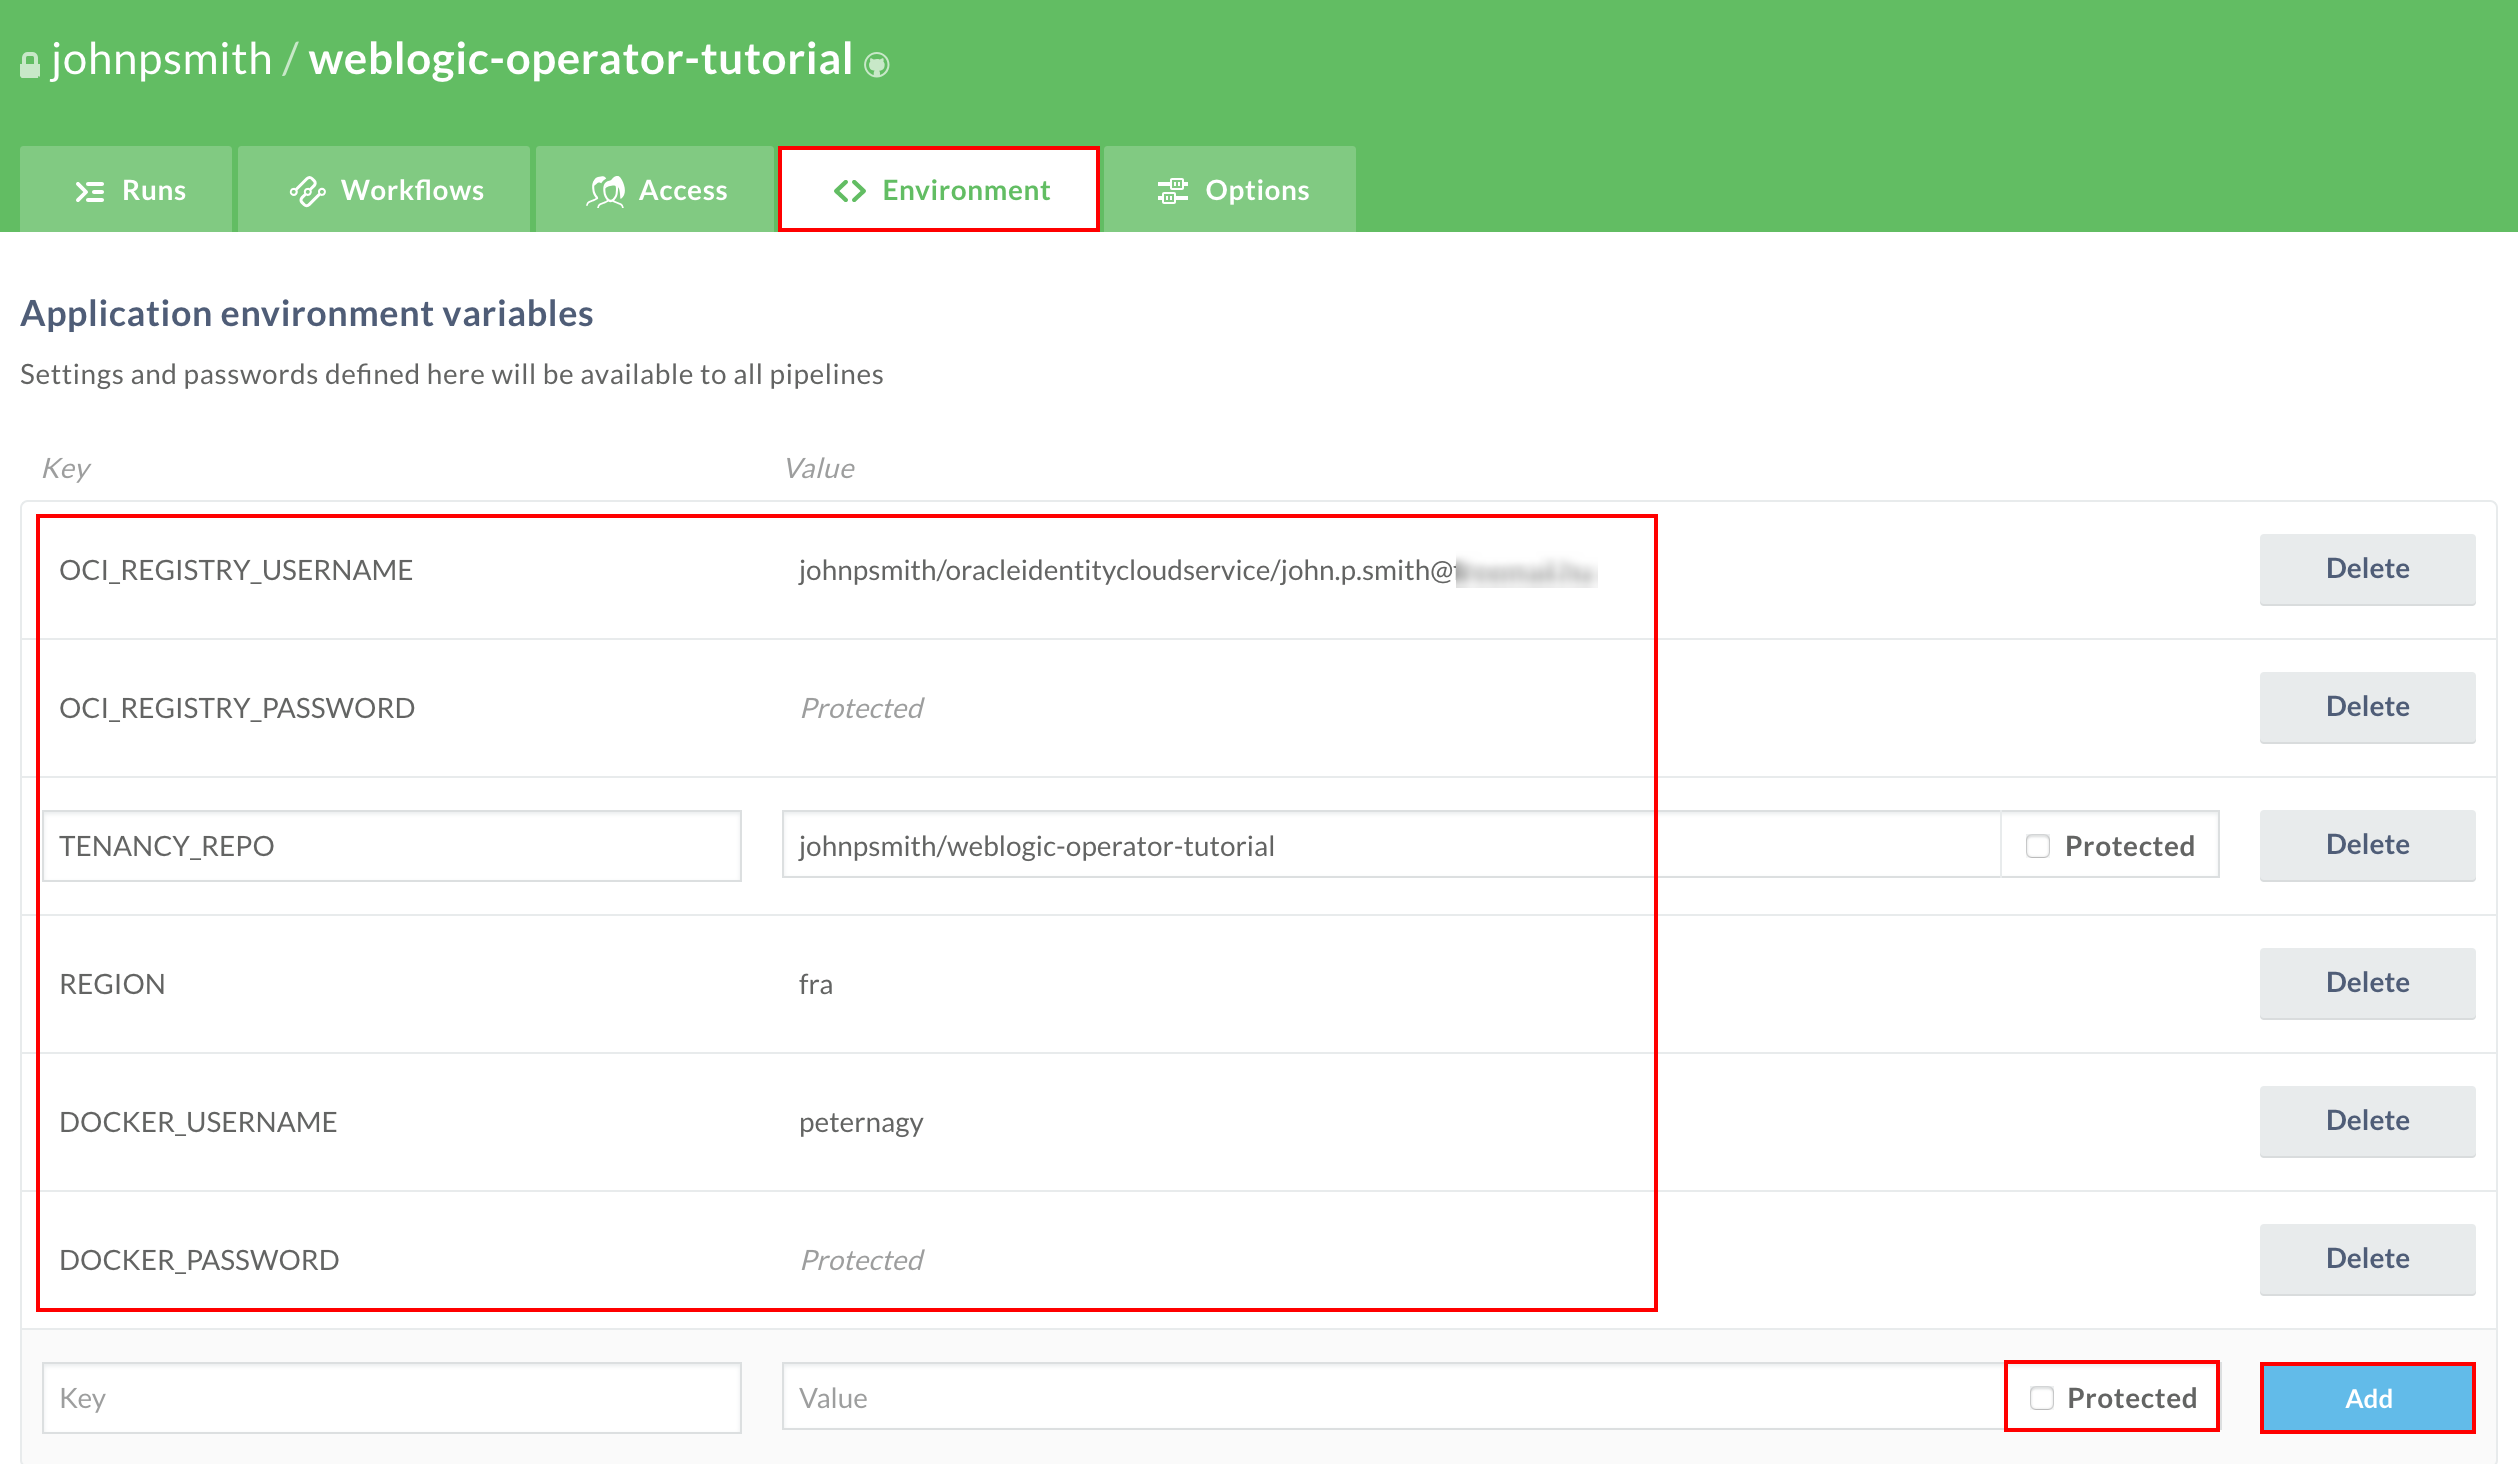
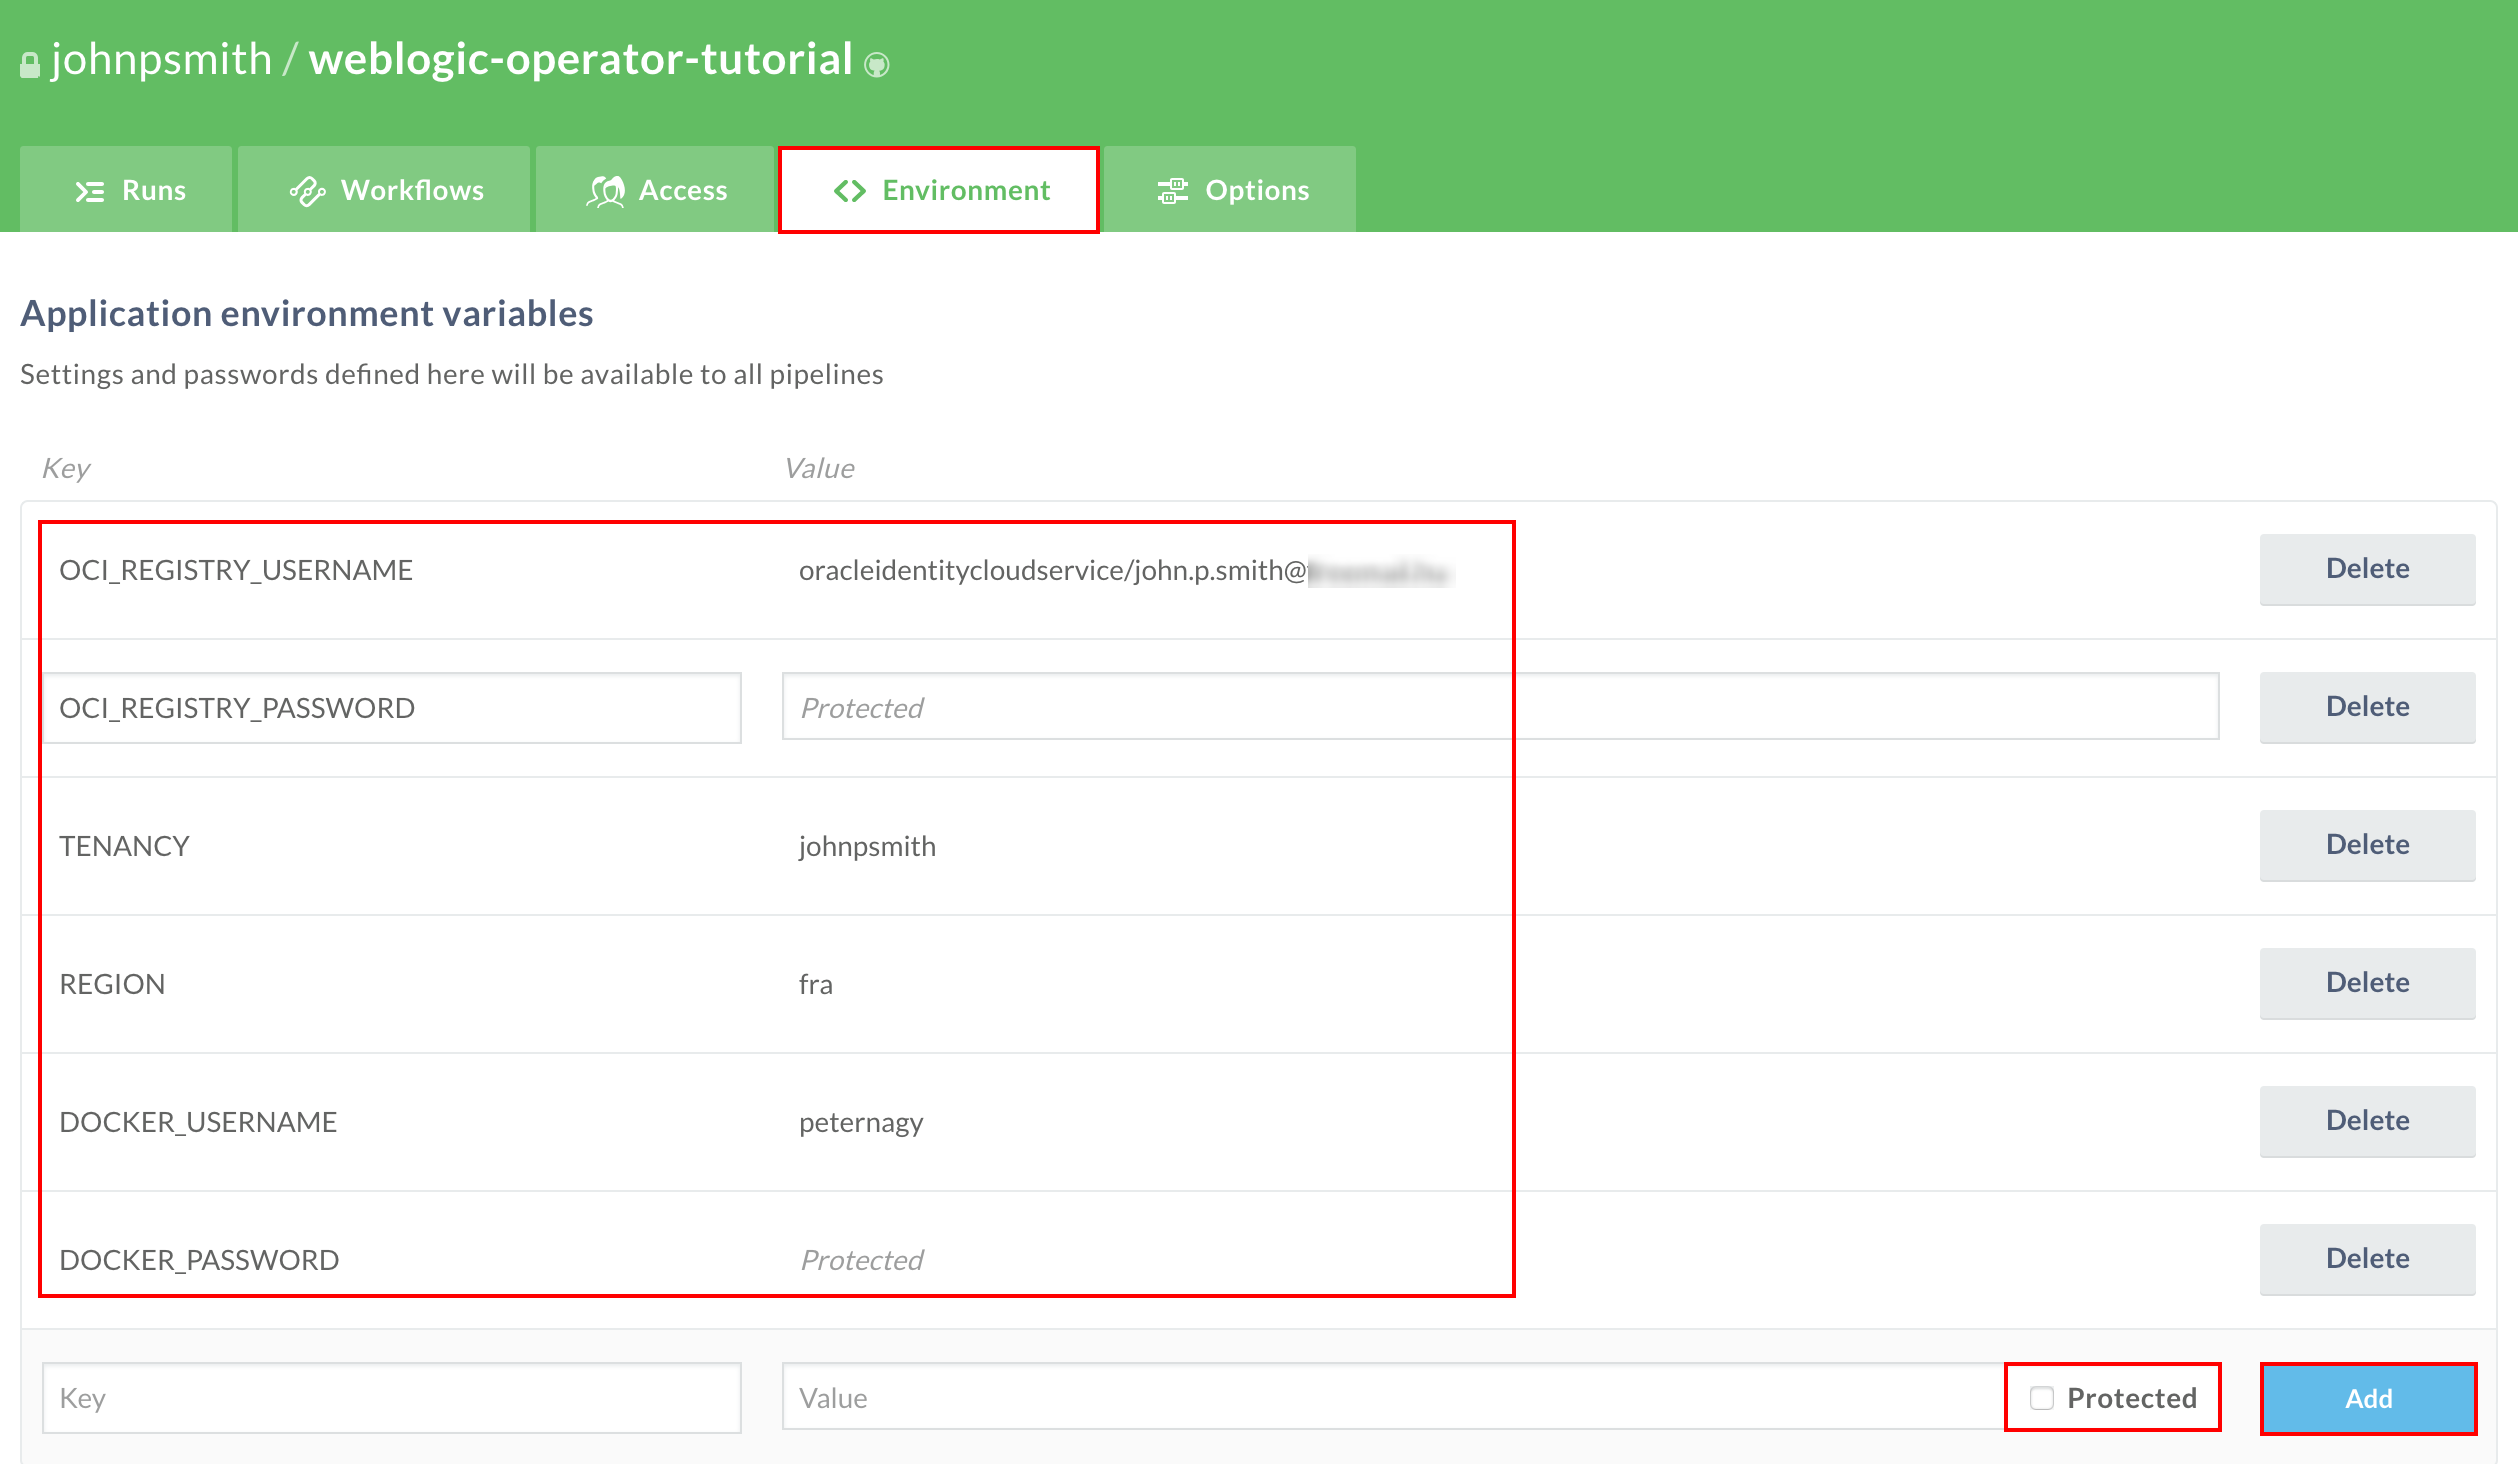
repo name fix in wercker.yml, build WebLogic image doc

diff --git a/tutorials/build.weblogic.image.pipeline.md b/tutorials/build.weblogic.image.pipeline.md
@@ -46,22 +46,6 @@ Since you are on the User details page please note the proper user name for late
 
 ![alt text](images/build.weblogic.pipeline/000.username.png)
 
-The second step is to create your image repository in container registry. At the end of the build process the pipeline will push the custom WebLogic image to this repository. When the image is available WebLogic Operator will pull the new (version of the) image from this repository. Using the left sliding menu select **Developer Services** and click **Registry**.
-
-![alt text](images/ocir/004.open.ocir.png)
-
-To create a new repository click **Create Repository**.
-
-![alt text](images/ocir/005.create.repo.png)
-
-Define a repository name e.g. *weblogic-operator-test*. Leave the default *Private* settings and click **Submit**.
-
-![alt text](images/ocir/006.create.repo.submit.png)
-
-Review the newly created repository's detail. Please also note your registry's name (next to the house icon) for later usage. Basically it has to be your OCI tenancy's name.
-
-![alt text](images/ocir/007.check.repo.png)
-
 #### Accept Licence Agreement to use `store/oracle/weblogic:12.2.1.3` image from Docker Store ####
 
 If you have not used the base image [`store/oracle/weblogic:12.2.1.3`](https://store.docker.com/images/oracle-weblogic-server-12c) before, you will need to visit the [Docker Store web interface](https://store.docker.com/images/oracle-weblogic-server-12c) and accept the license agreement before the Docker Store will give you permission to pull that image.
@@ -133,10 +117,10 @@ The repository already contains a necessary `wercker.yml` but before the executi
 
 | Key            | Value                                                                     | Note for WebLogic on OKE                                                                                                                                         |
 |----------------|---------------------------------------------------------------------------|------------------------------------------------------------------------------------------------------------------------------------------------------------------|
-| OCI_REGISTRY_USERNAME | your_tenancy/your_cloud_username |  The username what you note during user settings. e.g. johnpsmith/oracleidentitycloudservice/john.p.smith@example.com |
+| OCI_REGISTRY_USERNAME | your_cloud_username |  The username what you note during user settings. e.g. oracleidentitycloudservice/john.p.smith@example.com |
 | OCI_REGISTRY_PASSWORD | OCIR Auth Token | The Auth Token you generated previously |
-| TENANCY_REPO | Container repository (including tenancy name!) | The repository name what you created few steps ahead e.g. johnpsmith/weblogic-operator-tutorial |
-| REGION | The key of the home region. See the [documentation](https://docs.cloud.oracle.com/iaas/Content/Registry/Concepts/registryprerequisites.htm#Availab) to get your region key. | e.g. `fra` - stands for *eu-frankfurt-1* |
+| TENANCY | Name of your tenancy |
+| REGION | The code of your home region. See the [documentation](https://docs.cloud.oracle.com/iaas/Content/Registry/Concepts/registryprerequisites.htm#Availab) to get your region code. | e.g. `fra` - stands for *eu-frankfurt-1* |
 | DOCKER_USERNAME | Your Docker Hub username | Necessary to pull official WebLogic Server image from Docker Store |
 | DOCKER_PASSWORD | Your Docker Hub password | Necessary to pull official WebLogic Server image from Docker Store |
 
@@ -172,4 +156,16 @@ To get more details about the current step click on the pipeline.
 
 ![alt text](images/build.weblogic.pipeline/015.running.png)
 
-When the workflow is completed the WebLogic image is available in your image repository. Open the OCI console page and go to the container registry console to check.
+When the workflow is completed the WebLogic image is available in your image repository.
+
+![alt text](images/build.weblogic.pipeline/016.run.succeed.png)
+
+Open the OCI console page and go to the container registry console to check.
+
+![alt text](images/ocir/004.open.ocir.png)
+
+In the registry you have to find a repository named like your Oracle Pipeline application (e.g. *weblogic-operator-tutorial*). If you open the repository for more details you  find two images. Technically the two images are the same, but got two tags. One of them is the git commit hash tag which is uniquely identify the image. The second *latest* tag applied because to have easier access to the historically latest release/image.
+
+![alt text](images/build.weblogic.pipeline/017.ocir.image.check.png)
+
+Now the WebLogic domain image is ready to deploy on Kubernetes using WebLogic Operator.
